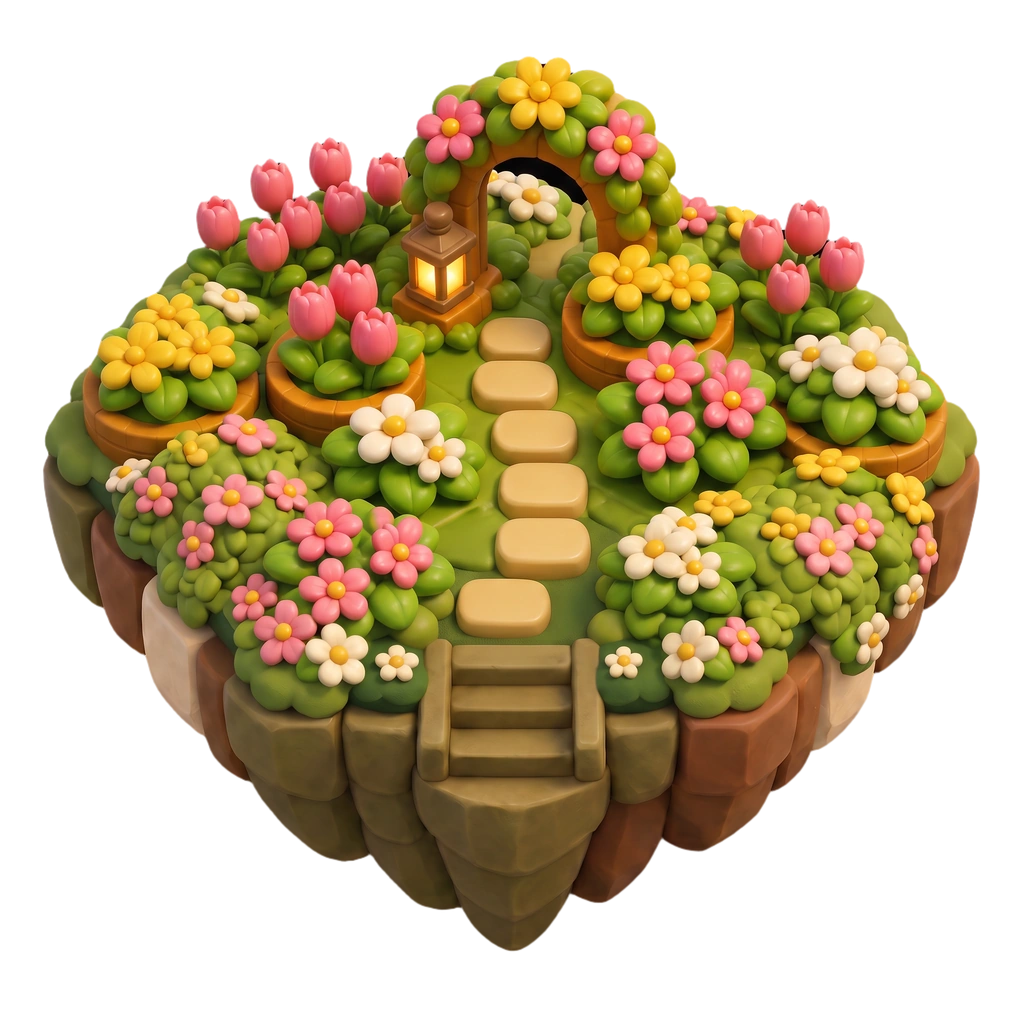
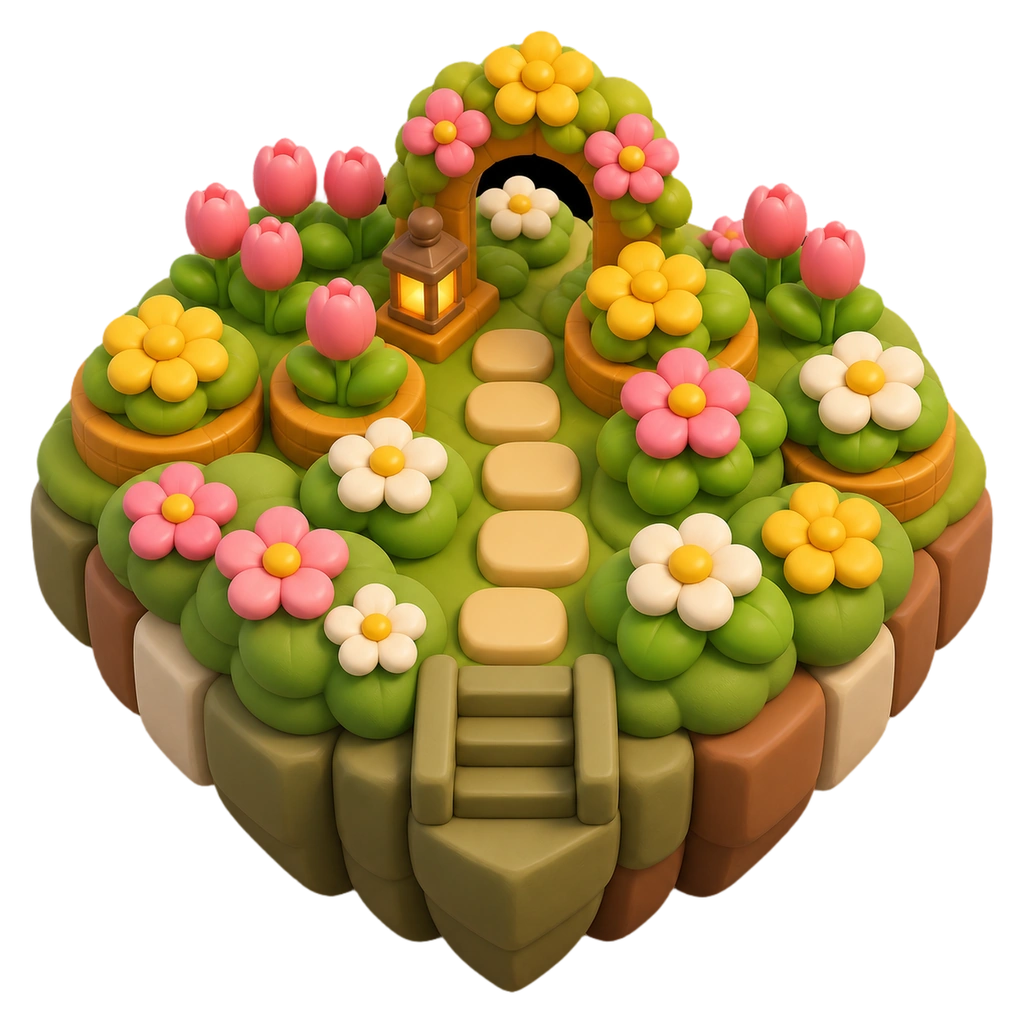
feat: simplify Mossprout tiles and center layout

diff --git a/katchimeras/constants/kingdom-hex-tile-bounds.gen.ts b/katchimeras/constants/kingdom-hex-tile-bounds.gen.ts
@@ -108,13 +108,13 @@ export const KINGDOM_HEX_TILE_ALPHA_BOUNDS = {
   'home_explorer_hex_tile.webp': { left: 14, top: 62, right: 1010, bottom: 961 },
   'home_nurturer_hex_tile.webp': { left: 14, top: 58, right: 1010, bottom: 965 },
   'mossprout_focused_v1_ancient_tree_grove_hex_tile.webp': { left: 43, top: 20, right: 981, bottom: 952 },
-  'mossprout_focused_v1_bloom_garden_hex_tile.webp': { left: 43, top: 56, right: 980, bottom: 952 },
+  'mossprout_focused_v1_bloom_garden_hex_tile.webp': { left: 30, top: 30, right: 994, bottom: 993 },
   'mossprout_focused_v1_garden_hex_tile.webp': { left: 43, top: 91, right: 981, bottom: 952 },
   'mossprout_focused_v1_main_hex_tile.webp': { left: 43, top: 35, right: 980, bottom: 952 },
   'mossprout_focused_v1_orchard_grove_hex_tile.webp': { left: 43, top: 27, right: 980, bottom: 951 },
   'mossprout_focused_v1_pond_sanctuary_hex_tile.webp': { left: 43, top: 39, right: 981, bottom: 952 },
   'mossprout_focused_v1_seed_nursery_hex_tile.webp': { left: 43, top: 35, right: 980, bottom: 951 },
-  'mossprout_focused_v1_wildgrowth_grove_hex_tile.webp': { left: 42, top: 29, right: 980, bottom: 952 },
+  'mossprout_focused_v1_wildgrowth_grove_hex_tile.webp': { left: 43, top: 33, right: 981, bottom: 981 },
   'organic_island_v1_baristabbit_hex_tile.webp': { left: 20, top: 67, right: 1003, bottom: 974 },
   'organic_island_v1_gatherglow_hex_tile.webp': { left: 19, top: 35, right: 1005, bottom: 998 },
   'organic_island_v1_mossprout_haven_stage_4_hex_tile.webp': { left: 114, top: 102, right: 909, bottom: 901 },

diff --git a/katchimeras/components/katchadeck/world/mossprout-hex-neighborhood-scene.ts b/katchimeras/components/katchadeck/world/mossprout-hex-neighborhood-scene.ts
@@ -29,7 +29,7 @@ type ArtSpec = {
 
 const MAIN: ArtSpec = {
   alphaBounds: KINGDOM_HEX_TILE_ALPHA_BOUNDS['mossprout_focused_v1_main_hex_tile.webp'],
-  coord: { q: 0, r: 0 },
+  coord: { q: 0, r: 1 },
   sources: {
     full: require('../../../assets/images/katchimeras/world/hex/mossprout_focused_v1_main_hex_tile.webp'),
     medium: require('../../../assets/images/katchimeras/world/hex/mossprout_focused_v1_main_hex_tile_512.webp'),
@@ -39,7 +39,7 @@ const MAIN: ArtSpec = {
 
 const GARDEN: ArtSpec = {
   alphaBounds: KINGDOM_HEX_TILE_ALPHA_BOUNDS['mossprout_focused_v1_garden_hex_tile.webp'],
-  coord: { q: 0, r: 1 },
+  coord: { q: 0, r: 2 },
   sources: {
     full: require('../../../assets/images/katchimeras/world/hex/mossprout_focused_v1_garden_hex_tile.webp'),
     medium: require('../../../assets/images/katchimeras/world/hex/mossprout_focused_v1_garden_hex_tile_512.webp'),

diff --git a/katchimeras/tests/haven-square-world.test.ts b/katchimeras/tests/haven-square-world.test.ts
@@ -228,8 +228,8 @@ test('the focused Mossprout replacement uses the top-level hex projection and au
   );
   assert.match(scene, /LAYOUT_PROFILE = 'floating-neighborhood-v2'/);
   assert.match(scene, /NEIGHBORHOOD_SPACING_SCALE = 1\.1/);
-  assert.match(scene, /const MAIN:[\s\S]*?coord: \{ q: 0, r: 0 \}/);
-  assert.match(scene, /const GARDEN:[\s\S]*?coord: \{ q: 0, r: 1 \}/);
+  assert.match(scene, /const MAIN:[\s\S]*?coord: \{ q: 0, r: 1 \}/);
+  assert.match(scene, /const GARDEN:[\s\S]*?coord: \{ q: 0, r: 2 \}/);
   for (const [id, q, r] of [
     ['seed-nursery', -1, 1],
     ['bloom-garden', 1, 0],

diff --git a/katchimeras/scripts/render-mossprout-hex-neighborhood-qa.py b/katchimeras/scripts/render-mossprout-hex-neighborhood-qa.py
@@ -19,10 +19,10 @@ Y_PITCH = TILE_SIZE * (math.sqrt(3) / 2) * 0.7 * 1.02 * NEIGHBORHOOD_SPACING_SCA
 PADDING = 120
 
 PLACEMENTS = (
-    ("main", 0, 0),
+    ("main", 0, 1),
     ("seed-nursery", -1, 1),
     ("bloom-garden", 1, 0),
-    ("garden", 0, 1),
+    ("garden", 0, 2),
     ("pond-sanctuary", -1, 2),
     ("orchard-grove", 1, 1),
     ("ancient-tree-grove", -1, 3),

diff --git a/katchimeras/design/mossprout-hex-neighborhood-v1/README.md b/katchimeras/design/mossprout-hex-neighborhood-v1/README.md
@@ -17,8 +17,8 @@ Runtime topology:
 
 | Tile | Axial coordinate |
 | --- | --- |
-| Main | `(0, 0)` |
-| Garden | `(0, 1)` |
+| Main | `(0, 1)` |
+| Garden | `(0, 2)` |
 | Seed Nursery / Bloom Garden | `(-1, 1)` / `(1, 0)` |
 | Pond Sanctuary / Orchard Grove | `(-1, 2)` / `(1, 1)` |
 | Ancient Tree Grove / Wildgrowth Grove | `(-1, 3)` / `(1, 2)` |
